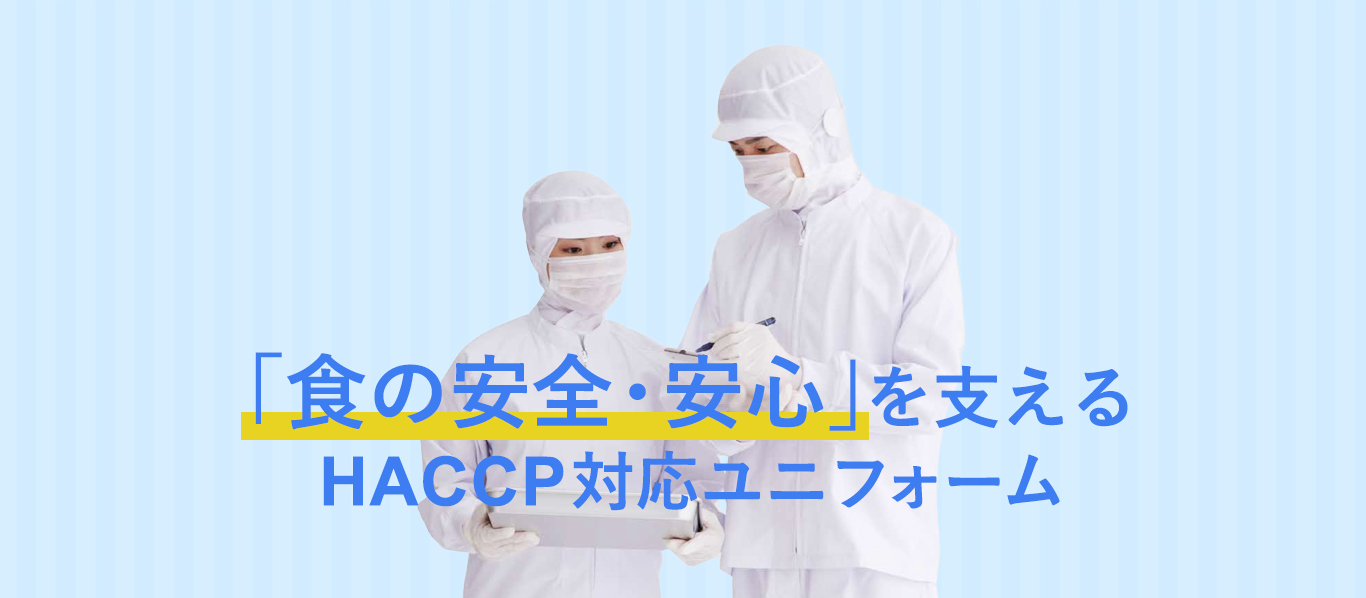
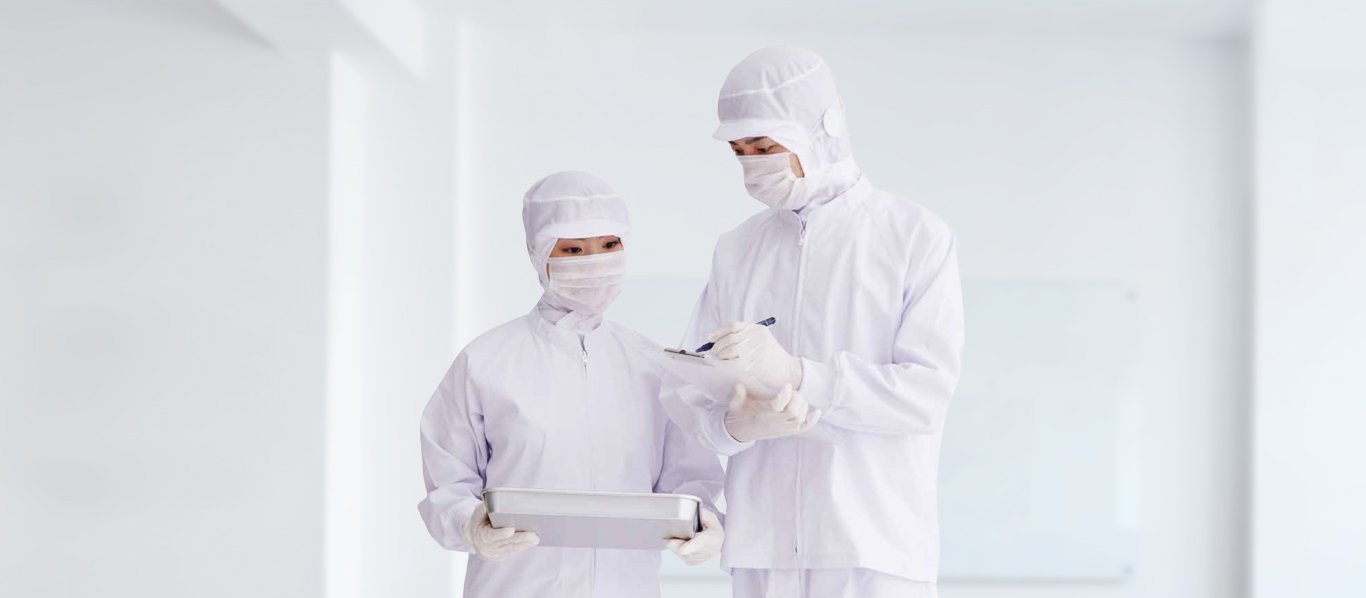
hero gsap

diff --git a/components/Hero.vue b/components/Hero.vue
@@ -1,9 +1,9 @@
 <template lang="pug">
-.hero.w-full.mt-2
-  .hero__inner.container.mx-auto.flex.justify-end
-    //- .hero__content
-    //-   .hero__title
-    //-   .hero__disc
+.hero.w-full
+  .hero__inner.container.mx-auto.flex.justify-end.relative
+    .hero__content.absolute.w-full.flex.flex-col.items-center
+      .hero__title.font-bold 「食の安全・安心」を支える
+      .hero__desc.font-bold HACCP対応ユニフォーム
     .hero__wrap
       .hero__cover
       .hero__img
@@ -12,7 +12,7 @@
 <script>
 export default {
   methods: {
-    slideCover(cover, img) {
+    slideCover(cover, img, text) {
       let tm = new TimelineMax({
         scrollTringger: {
           trigger: img,
@@ -25,17 +25,46 @@ export default {
         bottom: 0,
         ease: Power4.easeOut,
       });
-      tm.to(cover, 0.7, { top: 0, bottom: "100%", ease: Power4.easeOut });
-      tm.to(img, 0.7, { opacity: 1 }, "-=0.5");
+      tm.to(cover, 1, { top: 0, bottom: "100%", ease: Power4.easeOut });
+      tm.to(img, 1, { opacity: 1 }, "-=0.7");
+      tm.to(text, 1, { opacity: 1, y: "-40px" }, "-=0.7");
     },
   },
   mounted() {
-    this.slideCover(".hero__cover", ".hero__img img");
+    this.slideCover(".hero__cover", ".hero__img img", ".hero__content");
   },
 };
 </script>
 <style scoped lang="scss">
 .hero {
+  &__content {
+    z-index: 2;
+    top: 75%;
+    left: 50%;
+    transform: translate(-50%, -50%);
+    opacity: 0;
+  }
+  &__title {
+    font-size: 1rem;
+    color: #3d7df1;
+    text-shadow: 2px 2px 10px #fff;
+    @media screen and (min-width: 480px) {
+      font-size: 2rem;
+    }
+    @media screen and (min-width: 1028px) {
+      font-size: 4rem;
+    }
+  }
+  &__desc {
+    font-size: 0.5rem;
+    text-shadow: 2px 2px 10px #fff;
+    @media screen and (min-width: 480px) {
+      font-size: 1rem;
+    }
+    @media screen and (min-width: 1028px) {
+      font-size: 2.5rem;
+    }
+  }
   &__wrap {
     position: relative;
   }

diff --git a/components/Header.vue b/components/Header.vue
@@ -5,7 +5,7 @@ header.header.w-full
       svgLogo
     nav.header__nav
       ul.header__ul.flex
-        li.header__li.ml-2(
+        li.header__li.ml-5.font-bold.text-sm(
           v-for="(category, index) in categorys",
           :key="index"
         ) {{ category }}
@@ -18,7 +18,7 @@ export default {
   },
   data() {
     return {
-      categorys: ["Home", "About", "Contact"],
+      categorys: ["HOME", "ABOUT", "CONTACT"],
     };
   },
 };
@@ -27,7 +27,7 @@ export default {
 .header {
   &__inner {
     width: 100%;
-    height: 80px;
+    height: 70px;
     // @media screen and (min-width: 768px) {
     //   width: 1000px;
     // }

diff --git a/pages/index.vue b/pages/index.vue
@@ -2,7 +2,12 @@
   <div>
     <Header />
     <Hero />
+    <Title>
+      <template v-slot:title-en>PRODUCT LINE-UP</template>
+      <template v-slot:title-ja>商品ラインナップ</template>
+    </Title>
     <Card />
+    <Footer />
   </div>
 </template>
 
@@ -21,7 +26,6 @@ export default {};
     "Segoe UI", Roboto, "Helvetica Neue", Arial, sans-serif;
   display: block;
   font-weight: 300;
-  font-size: 100px;
   color: #35495e;
   letter-spacing: 1px;
 }

diff --git a/components/Title.vue b/components/Title.vue
@@ -1,0 +1,13 @@
+<template lang="pug">
+.title.mt-10
+  .title__inner.container.mx-auto.flex.flex-col.text-center.font-bold.text-black
+    .title__en.text-3xl
+      <slot name="title-en" />
+    .title_ja.text-2xl
+      <slot name="title-ja" />
+</template>
+<style scoped lang="scss">
+.title {
+  margin: 5rem 0 3rem;
+}
+</style>

diff --git a/components/Footer.vue b/components/Footer.vue
@@ -1,0 +1,6 @@
+<template lang="pug">
+footer.footer.w-full.flex.justify-center.mb-12(class="lg:mb-0")
+  .footer__inner
+    .footer__copy.mx-auto.mb-2
+      small &copy; 2020 DAIMARU-HAKUI Co., Ltd.
+</template>
